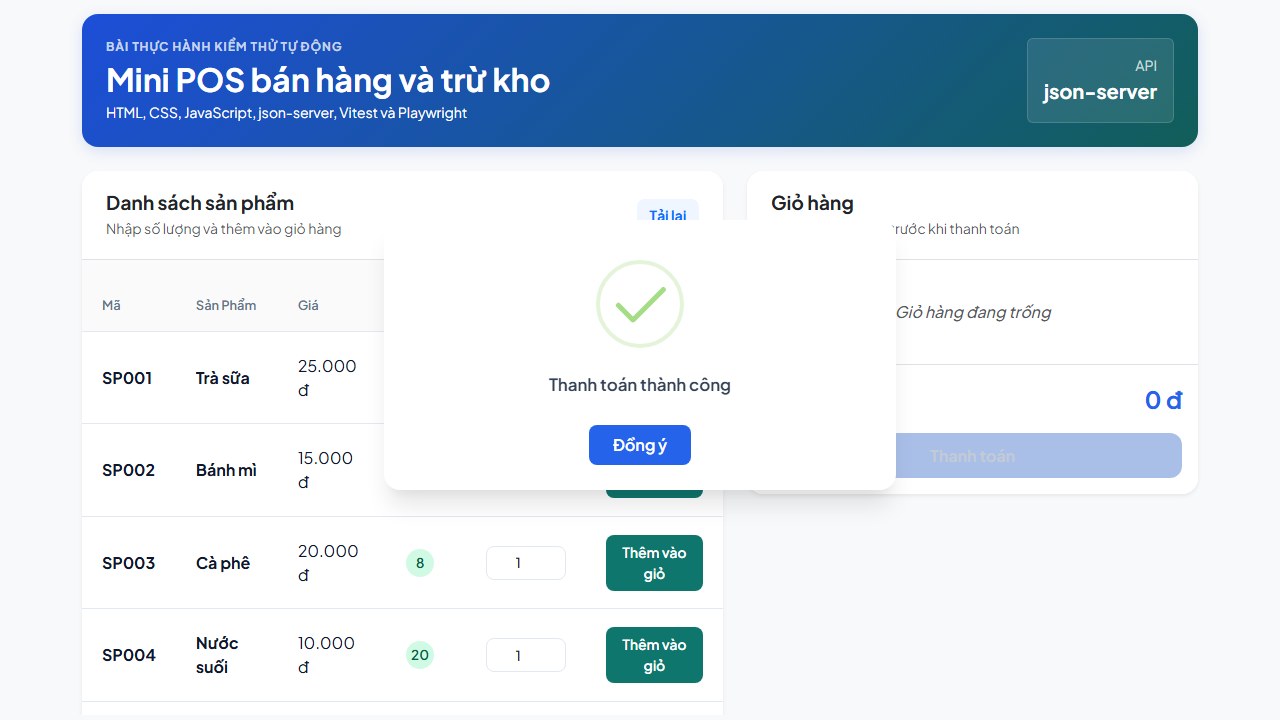
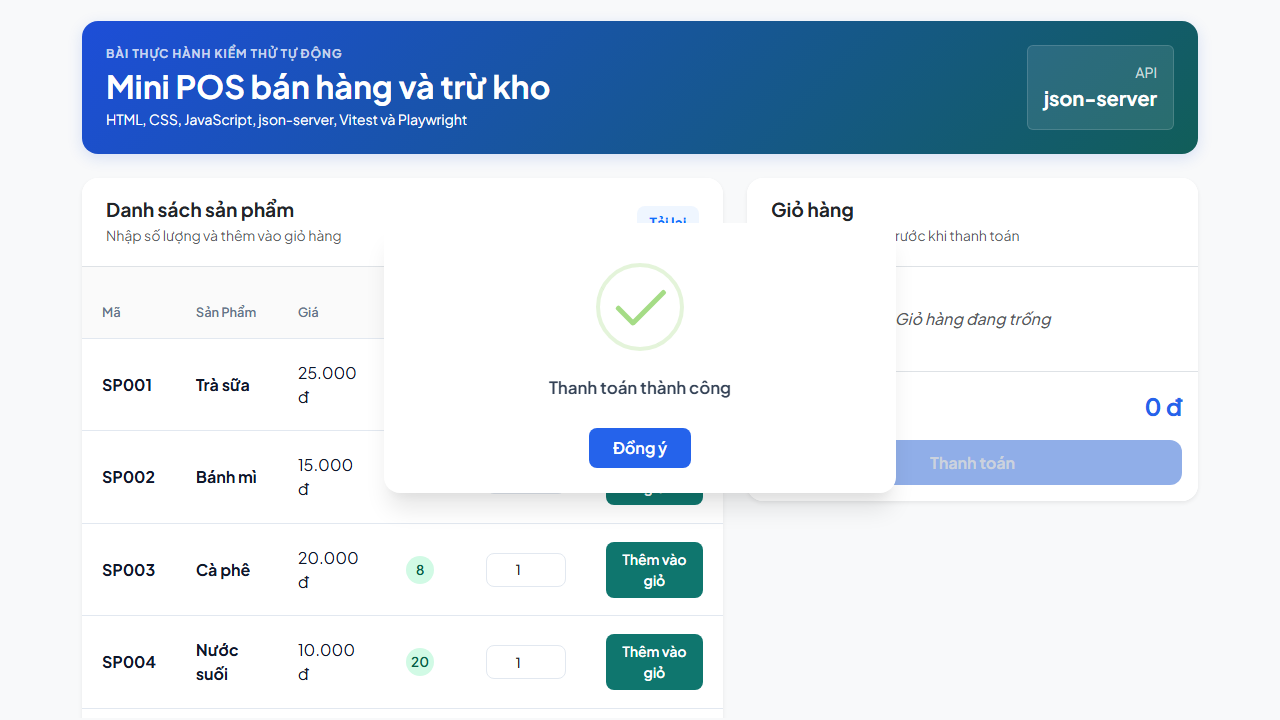
feat: Update product references in README and tests for coffee stock reduction

diff --git a/tests/e2e/pos.spec.js b/tests/e2e/pos.spec.js
@@ -73,9 +73,9 @@ test.describe('Kiểm thử giao diện Mini POS (E2E)', () => {
 
   // 5. Kiểm tra thanh toán thành công và trừ tồn kho
   test('Thanh toán thành công thì tồn kho giảm', async ({ page }) => {
-    // Mua 3 Trà sữa
-    await page.getByTestId('product-quantity-1').fill('3');
-    await page.getByTestId('add-to-cart-1').click();
+    // Mua 4 Cà phê (Cà phê tồn kho ban đầu là 8)
+    await page.getByTestId('product-quantity-3').fill('4');
+    await page.getByTestId('add-to-cart-3').click();
 
     // Click nút Thanh toán
     await page.getByTestId('checkout-button').click();
@@ -83,8 +83,8 @@ test.describe('Kiểm thử giao diện Mini POS (E2E)', () => {
     // Kiểm tra tin nhắn thanh toán thành công
     await expect(page.getByTestId('message')).toContainText('Thanh toán thành công');
 
-    // Kiểm tra tồn kho của Trà sữa giảm từ 10 xuống còn 7
-    await expect(page.getByTestId('product-stock-1')).toHaveText('7');
+    // Kiểm tra tồn kho của Cà phê giảm từ 8 xuống còn 4
+    await expect(page.getByTestId('product-stock-3')).toHaveText('4');
   });
 
   // 6. Kiểm tra giỏ hàng được làm rỗng sau khi thanh toán thành công

diff --git a/index.html b/index.html
@@ -30,7 +30,7 @@
 
     <div class="row g-4">
       <!-- Product List Column -->
-      <div class="col-lg-7">
+      <div class="col-lg-8">
         <div class="card shadow-sm border-0">
           <div class="card-header bg-white border-bottom py-3 d-flex justify-content-between align-items-center">
             <div>
@@ -64,7 +64,7 @@
       </div>
 
       <!-- Cart Column -->
-      <div class="col-lg-5">
+      <div class="col-lg-4">
         <div class="card shadow-sm border-0">
           <div class="card-header bg-white border-bottom py-3">
             <h2 class="h5 card-title mb-1 text-dark fw-bold">Giỏ hàng</h2>

diff --git a/README.md b/README.md
@@ -36,7 +36,7 @@ Hiển thị cảnh báo lỗi khi số lượng chọn mua vượt quá lượn
 ![04. Vượt quá tồn kho](src/images/04_invalid_qty_over_stock.png)
 
 #### 5. Thanh toán thành công thì tồn kho giảm
-Thanh toán thành công và cập nhật trừ tồn kho tương ứng của sản phẩm trên server (ví dụ: Trà sữa giảm từ 10 xuống còn 7):
+Thanh toán thành công và cập nhật trừ tồn kho tương ứng của sản phẩm trên server (ví dụ: Cà phê giảm từ 8 xuống còn 4):
 ![05. Thanh toán thành công](src/images/05_checkout_success.png)
 
 #### 6. Thanh toán xong thì giỏ hàng rỗng